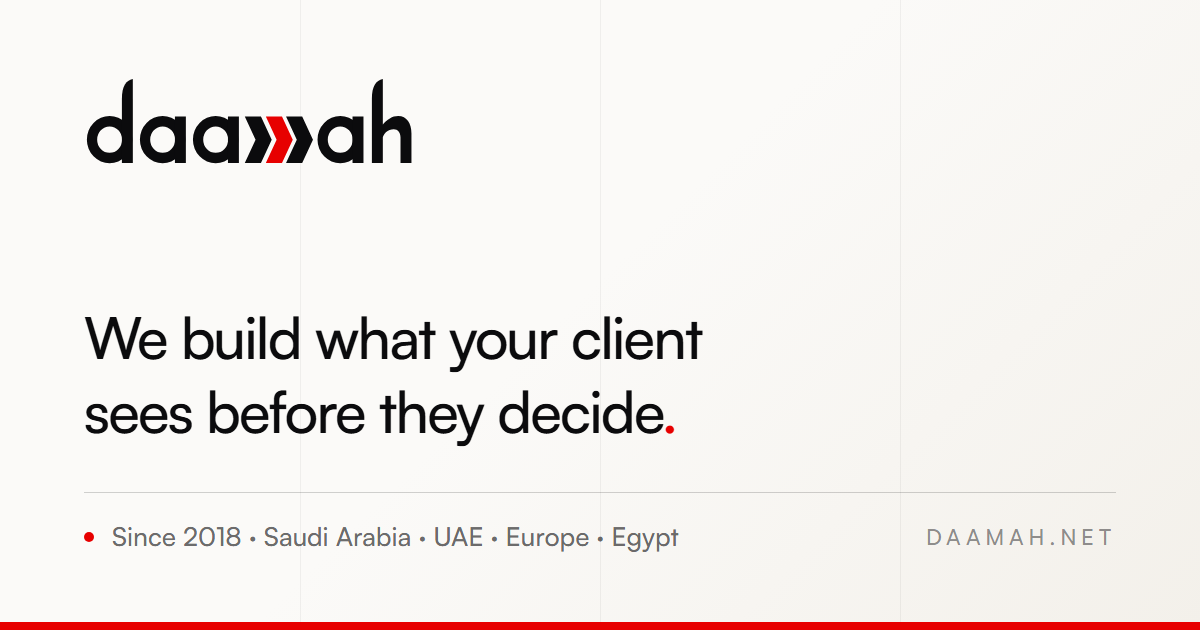
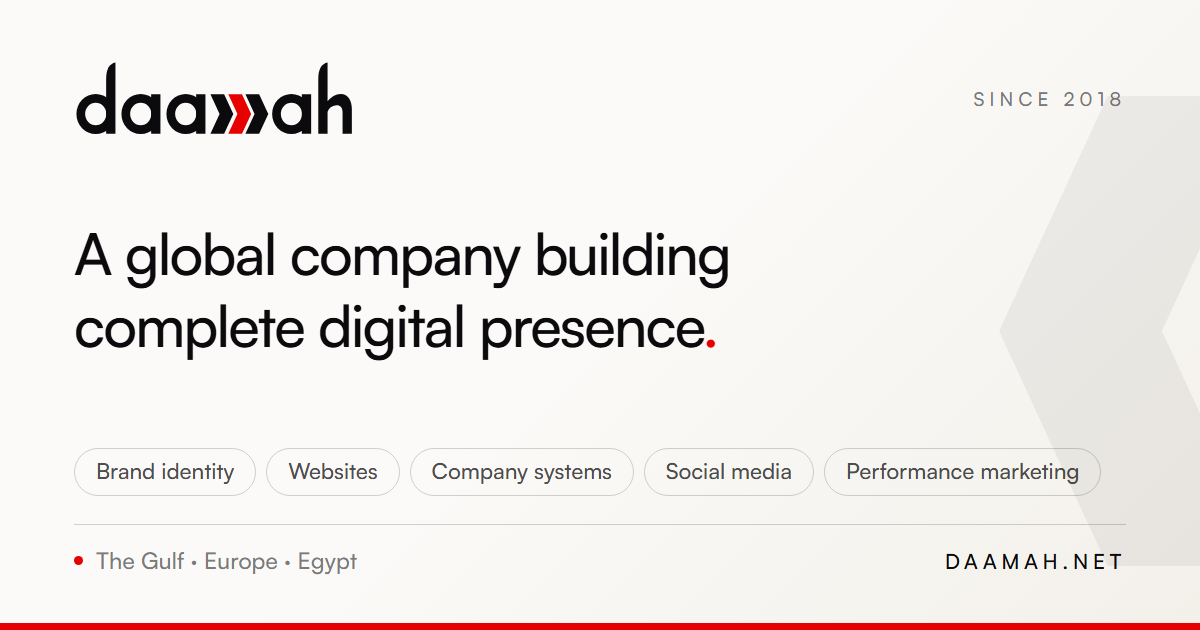
بطاقة المشاركة: الوصف مفكَّكًا لا فقرةً مرصوصة
البطاقة تُرى بحجم إبهام داخل محادثة، فالفقرة فيها رمادٌ لا يُقرأ.
الوصف نفسه صار سطرًا كبيرًا يُقرأ في لمحة، وخدماتٍ في صفّ كبسولات
لمن دقّق، وأسواقًا وعنوان الموقع أسفلها.

diff --git a/src/content/seo.ts b/src/content/seo.ts
@@ -89,8 +89,8 @@ const home: RouteMeta = {
       en: "Daamah Digital Solutions — building presence that fits your company",
     },
     description: {
-      ar: "منذ 2018 نبني للشركات هوية بصرية ومواقع وحضورًا رقميًا متكاملًا — في السعودية والخليج وأوروبا ومصر.",
-      en: "Since 2018 we build brand identity, websites, and complete digital presence for companies across Saudi Arabia, the Gulf, Europe, and Egypt.",
+      ar: "شركة عالمية تبني حضورًا رقميًا متكاملًا للشركات في الخليج وأوروبا ومصر من خلال: هوية بصرية متكاملة، مواقع إلكترونية، أنظمة إدارة الشركات، سوشيال ميديا، وتسويق رقمي يحقق نتائج.",
+      en: "A global company building complete digital presence for companies across the Gulf, Europe, and Egypt: brand identity, websites, company management systems, social media, and marketing that performs.",
     },
   },
   priority: 1,
